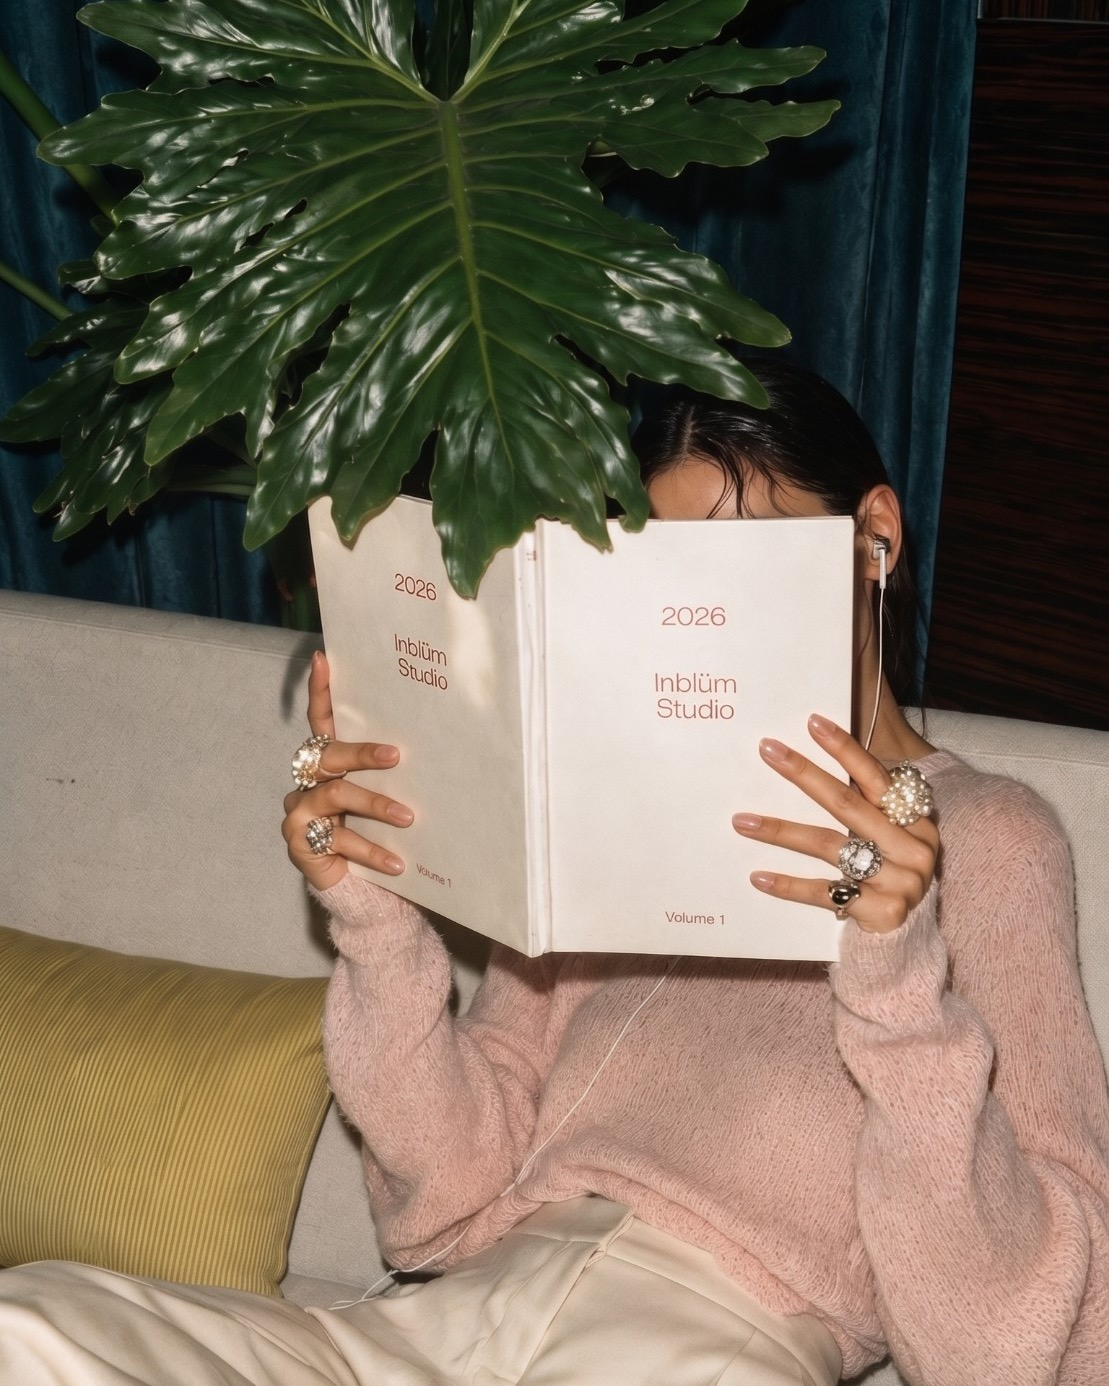
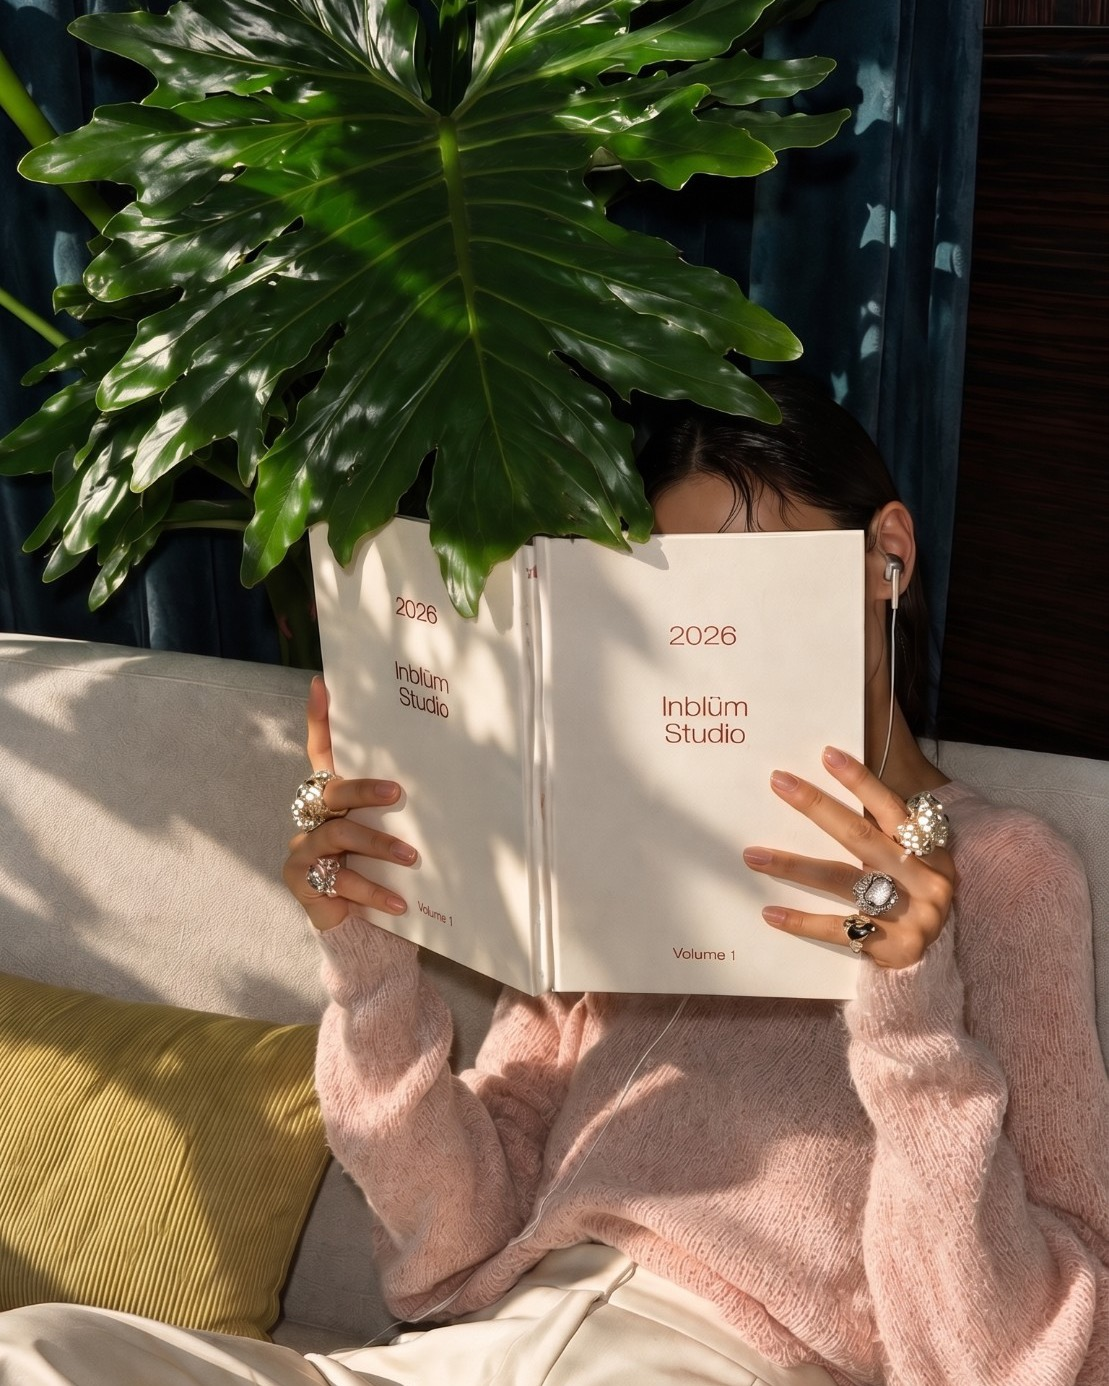
Apertura: el retrato es la versión de la foto con luz de sol
Reemplaza la foto del libro "Inblüm Studio, Volume 1" por la versión con sol
filtrado por la planta (1109x2000). Mismo encuadre que la anterior: recorte
4:5 tomado 210 px más abajo del borde de arriba. El src sube a ?v=3 y el
README ya no cita el número exacto.

diff --git a/index.html b/index.html
@@ -92,7 +92,7 @@
       </div>
 
       <figure class="ap-retrato">
-        <img src="assets/apertura/retrato.jpg?v=2" width="1109" height="1386" fetchpriority="high" decoding="async"
+        <img src="assets/apertura/retrato.jpg?v=3" width="1109" height="1386" fetchpriority="high" decoding="async"
              alt="Fotografía de una mujer sentada en un sofá que se cubre el rostro con un libro abierto, «2026 Inblüm Studio, Volume 1», detrás de la hoja grande de una planta">
       </figure>
     </div>

diff --git a/README.md b/README.md
@@ -82,8 +82,9 @@ en la sección 0 de `js/app.js`.
   Los textos alternativos están en `index.html`; cámbialos con la imagen. El
   retrato es un recorte 4:5 de una foto vertical (1109 × 2000 px), tomado 210 px
   más abajo del borde de arriba: para subir o bajar el encuadre hay que volver a
-  recortar la foto original. Su `src` lleva `?v=2`: súbelo cada vez que cambies el
-  archivo, para que nadie vea la copia vieja guardada en el navegador.
+  recortar la foto original. Su `src` lleva un `?v=` con un número: súbelo cada vez
+  que cambies el archivo, para que nadie vea la copia vieja guardada en el
+  navegador.
 - **El titular que rota**: el `<h2>` alterna entre las frases de `FRASES`
   (`js/data.js`) con un barrido de colores letra por letra. Cada letra recorre un
   espectro (rosa, naranja, amarillo, celeste, azul) y se desvanece, con un
